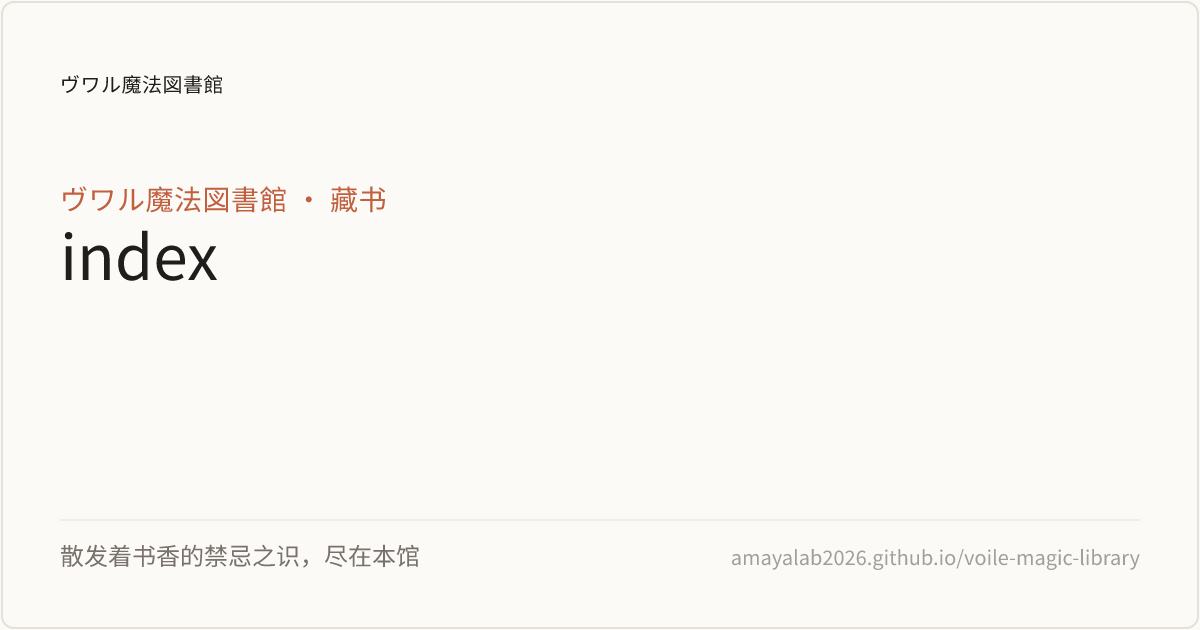
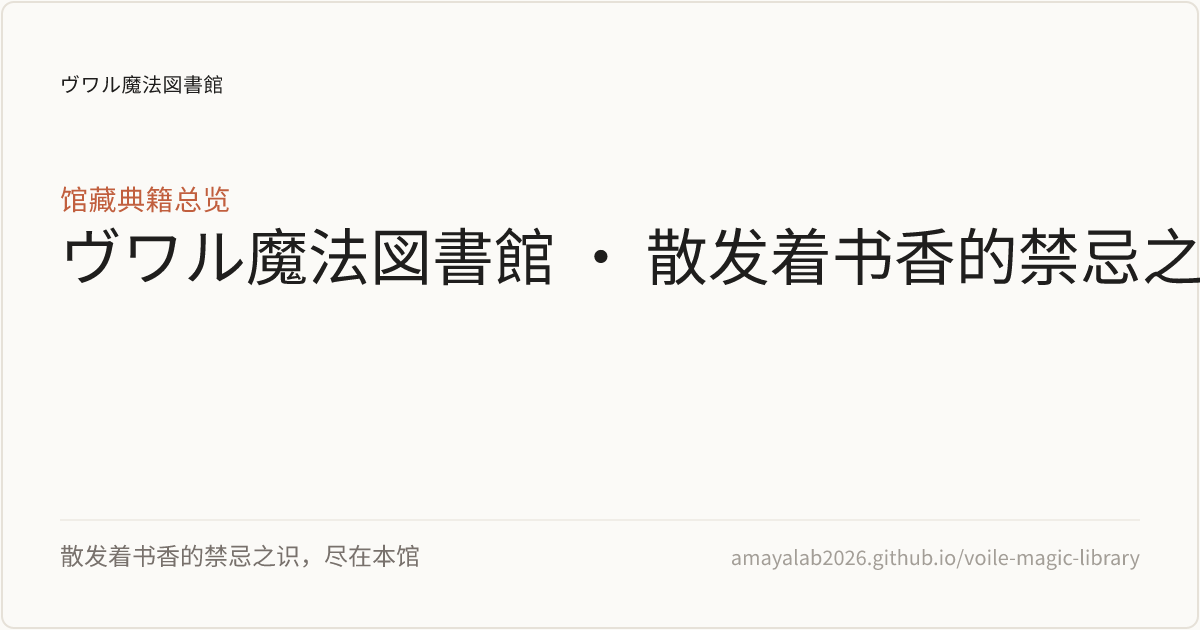
feat(og): format homepage og card with Claude aesthetic and dedicated collection title

Changed region(s): [[0.0308, 0.2714, 0.4625, 0.4524], [0.4933, 0.3619, 1.0, 0.4524], [0.2775, 0.3016, 0.3392, 0.3317]]

diff --git a/scripts/build_all_og.ts b/scripts/build_all_og.ts
@@ -113,7 +113,26 @@ export function resolvePageMeta(relPath: string): PageMeta {
   let callNo: string | undefined
   let author: string | undefined
 
-  if (normalized.includes('rocket-pioneers')) {
+  const isHome = urlPath === '/' || urlPath === '/en/' || urlPath === '/ja/' || urlPath === '/zh-hant/'
+  if (isHome) {
+    if (lang === 'en') {
+      title = 'Voile Magic Library · Digital Archives'
+      category = 'Digital Special Collections'
+    }
+    else if (lang === 'ja') {
+      title = 'ヴワル魔法図書館 · 書香漂う禁断の知識'
+      category = '館蔵典籍総覧'
+    }
+    else if (lang === 'zh-hant') {
+      title = 'ヴワル魔法図書館 · 散發著書香的禁忌之識'
+      category = '館藏典籍總覽'
+    }
+    else {
+      title = 'ヴワル魔法図書館 · 散发着书香的禁忌之识'
+      category = '馆藏典籍总览'
+    }
+  }
+  else if (normalized.includes('rocket-pioneers')) {
     callNo = 'VML-TL781.P56-1965'
     if (lang === 'en') {
       category = 'Pioneers of Rocket Technology (NASA TT F-9285)'

diff --git a/docs/zh/config.ts b/docs/zh/config.ts
@@ -95,6 +95,7 @@ export default defineConfig({
             { text: '典籍概述与全书目录', link: '/fonts-encodings/' },
             { text: '导言 · 探索篇：字母部件与排版', link: '/fonts-encodings/introduction' },
             { text: '第一章：前 Unicode 时代编码体系', link: '/fonts-encodings/chapter-1' },
+            { text: '第二章：字符字形与字节（Unicode 导论）', link: '/fonts-encodings/chapter-2' },
           ],
         },
       ],

diff --git a/docs/zh/fonts-encodings/chapter-2.md b/docs/zh/fonts-encodings/chapter-2.md
@@ -1,0 +1,291 @@
+---
+title: 第二章 · 字符、字形与字节：Unicode 导论
+description: 雅尼斯·哈拉兰布斯《Fonts & Encodings》第二章全文深度学术汉译：字符与字形哲学二元性、Unicode 十大第一原则、UTF-8/16/32 编码形式与代理对数学、17 个平面宏观路线图全景剖析。
+---
+
+# 第二章 · 字符、字形与字节：Unicode 导论
+### Chapter 2: Characters, Glyphs, Bytes: An Introduction to Unicode
+**著者：雅尼斯·哈拉兰布斯 博士（Yannis Haralambous, Ph.D.）**  
+*选自《字体与编码》（Fonts & Encodings）原著第 53–94 页*
+
+---
+
+在上一章中，我们见证了前 Unicode 时代的诸神混战：从 7 位 ASCII 到各式各样互不兼容的 8 位 ISO 8859 扩展表，再到远东汉字文化圈各自探索的双字节代码页。这种地域性单字节与多字节标准割据的局面，给全球计算机信息交换带来了无穷无尽的乱码梦魇。
+
+二十世纪八十年代末，一场旨在统一全人类所有书写系统的计算革命应运而生。然而，要想构建一套能够包容全世界过去、现在与未来所有文字的通用字符集，计算机科学家与语言学家首先必须退回到哲学的原点，回答几个看似简单、实则极为深刻的本体论命题：**什么是字符？什么是字形？它们与计算机底层的二进制字节之间，究竟维持着怎样的数理映射关系？**
+
+---
+
+## 哲学命题：字符与字形（Characters and Glyphs）
+
+在日常口语与早期浅显的计算机文献中，“字符”（character）、“字模”（letterform）与“字形”（glyph）常常被不加区分地混淆使用。然而在现代计算机排印学与编码理论中，**严格厘清字符与字形的边界，是进入 Unicode 殿堂的绝对第一前提**。
+
+* **字符（Character）**：  
+  字符是一个**抽象的概念实体（abstract, intangible entity）**。它是书写语言中最基础的语义单元，拥有明确的语言学身份、名称与规范属性，但它**本身没有任何固定的外貌、大小或视觉形态**。例如，拉丁字母 “小写字母 a” 是一个字符，汉字 “文” 是一个字符，阿拉伯字母 “BEH” 亦是一个字符。字符存在于逻辑与概念的心智世界中。
+* **字形（Glyph）**：  
+  字形是字符在物理世界的**具体视觉呈现形态（graphical image / visual presentation）**。它是落在纸面上的一团墨迹，或是投射在显示屏上的一组发光像素与贝塞尔矢量曲线。同一个字符，在不同的字体设计师笔下、在不同的历史书写流派中、或在不同的排版上下文中，可以呈现为成百上千种截然不同的字形！
+
+### 为什么计算机不应编码字形？
+
+早期某些字符编码之所以走向失败，其根本原因就在于试图将特定的“视觉字形”硬塞入字符表中。试想：如果一种字体中包含正体 ‘a’、斜体 ‘*a*’、粗体 ‘**a**’、双层 ‘a’ 与单层手写体 ‘ɑ’，我们是否应当为它们分别分配独立的编码码位？
+
+答案是绝对坚决的否定。如果将排版样式的字形变体编码为独立字符，全文检索、自然语言处理、语义分词与拼写检查将瞬间陷入灭顶之灾：搜索引擎在匹配单词 “apple” 时，将无法命中以斜体或粗体书写的同一单词！
+
+因此，现代编码哲学的至高法则为：**编码（encoding）只负责收录抽象的“字符”（What you mean），而字体（font）则负责提供具象的“字形”（How it looks）**。
+
+![多文种混排引发的语义混淆（Figure 2-1）](/images/fonts-encodings/fig2-1-mixed-scripts-athens.png)
+
+*图 2-1：多文种混排引发的视觉与语义混淆（作者摄于希腊雅典街头商业招牌）。招牌文字表面上混用了希腊字母与拉丁字母，造成了人类辨识与字符语义流的严重错位。*
+
+在 **Figure 2-1** 中，作者记录了雅典街头一处极具启示性的商业招牌：店主为了追求某种后现代视觉美感，故意在希腊文招牌中混杂了拉丁字母字形。对于人类肉眼而言，希腊字母大写 ‘$H$’（Eta）与拉丁字母大写 ‘$H$’（Aitch）、希腊字母大写 ‘$P$’（Rho）与拉丁字母大写 ‘$P$’（Pee）在字形外观上完全难分彼此；但如果将它们输入计算机，其底层对应的字符语义和发音却南辕北辙！这一现实范例生动地告诫我们：**绝不能以字形的表象来替代字符的本质语义**。
+
+### Unicode 联盟与 ISO 10646 的世纪合流
+
+Unicode 运动最初于 1987 年由施乐帕洛阿尔托研究中心（Xerox PARC）的乔·贝克尔（Joe Becker）、李·柯林斯（Lee Collins）与苹果公司的马克·戴维斯（Mark Davis）共同倡议发起。1991 年 1 月，**Unicode 联盟（Unicode Consortium）**在加州正式注册成立。
+
+与此并行，国际标准化组织（ISO）亦在推进其官方的国际多八位编码字符集计划——**ISO/IEC 10646**（即通用字符集 UCS, Universal Character Set）。在初期，ISO 阵营倾向于构建一个庞大的 31 位四维编码空间（组 Group、面 Plane、排 Row、格 Cell），而早期 Unicode 阵营则主张构建一个紧凑高效、面向全人类现代常用文字的统一 16 位定长编码（$2^{16} = 65,536$ 个码位）。
+
+两大标准体系的分裂势必造成全球软件工业的灾难。所幸在 1991 年底，双方达成了极具远见的重大历史和解与合并协议：
+* 双方的字符码位分配实现**完全严格的一对一同步（1:1 synchronization）**；
+* ISO/IEC 10646 的第一组第零平面（Group 00, Plane 00）被永久确立为 **基本多语言平面（BMP, Basic Multilingual Plane）**，其码位与 Unicode 16 位空间完全一一对应；
+* 双方共用一套字符命名与属性规范，彻底避免了世界计算标准的分裂。
+
+---
+
+## Unicode 十大第一原则（First Principles）
+
+Unicode 体系之所以能够超越此前所有字符编码标准，在于其从诞生之初就确立了十项不可动摇的顶层公理架构（The Ten Principles of Unicode）：
+
+1. **通用性（Universal repertoire）**：  
+   Unicode 致力于收录全世界一切书写系统中所使用过的所有字符——不仅涵盖所有现代活语言，亦囊括古文字、楔形文字、象形文字以及广袤的数学、音乐、科学专业符号。
+2. **高效性（Efficiency）**：  
+   文本数据流必须易于解析与处理，绝不依赖像 ISO 2022 那样容易因通信损耗导致后续全部解码错乱的有状态“模式切换”。
+3. **统一性（Uniformity）**：  
+   在给定的编码形式下，所有字符均采用统一宽度的基准数理单位，提供固定且确定性的码位引用体系。
+4. **明确性（Unambiguity）**：  
+   每一个已分配的码位（code point）在任何时间、任何语境下，均唯一且无歧义地对应一个具体的抽象字符。
+5. **字符而非字形（Characters, not glyphs）**：  
+   这是 Unicode 最核心的基石。Unicode 只为抽象字符分配码位，字形的外观变体（粗体、斜体、连字、位置变换形态）交由上层字体与排版引擎负责。
+6. **语义纯文本原则（Plain text）**：  
+   Unicode 序列仅承载纯文本字符流。任何关于字体选择、字号大小、行距、边距与色彩的排版富文本属性，均属于外部标记语言（如 HTML、XML、RTF）的范畴。
+7. **逻辑顺序（Logical order）**：  
+   在计算机内存与数据流中，字符必须严格按照人类思维书写或朗读发音的**逻辑先后顺序（logical memory order）**存储。对于阿拉伯文与希伯来文等从右向左（RTL）书写的文字，其在内存中的存储顺序依然与从左向右（LTR）文字一致（先读的在前，后读的在后），屏幕上的逆向呈现完全交由排版系统的**双向算法（Bidi Algorithm）**负责。
+8. **字符统合（Unification）**：  
+   当不同文化或同一语言体系中的若干字符，在书写历史、图形起源与现代语义上具有同源性与共同特征时，Unicode 坚决将其统合归并为一个单一码位。最著名的范例莫过于**中日韩汉字统合（Han Unification）**。
+9. **动态组合（Dynamic composition）**：  
+   Unicode 允许带有重音符或附加变音标记的字符通过“基础字符 + 组合变音符”（Base Character + Combining Marks）在排版时动态拼合，而无需为每一种可能的复合变音字符穷举分配静态码位。
+10. **永久稳定性（Stability）**：  
+    一个码位一旦被正式赋予某个字符，其**码位数值与规范名称永久不变、绝不回收、绝不重新分配**给其他字符；字符的核心规范属性在后续版本中只增不删，确保历史数据的永恒可逆性。
+
+---
+
+## 技术命题：字符、码位与字节
+
+离开了物理硬件，纯粹的哲学将无法运转。在计算机系统内部，字符究竟如何落地为磁盘上的比特与字节？
+
+现代字符标准体系将字符的表征清晰划分为五层模型架构：
+$$\text{抽象字符库（ACR）} \longrightarrow \text{编码字符集（CCS）} \longrightarrow \text{字符编码形式（CEF）} \longrightarrow \text{字符编码方案（CES）} \longrightarrow \text{传输语法（TES）}$$
+
+1. **抽象字符库（Abstract Character Repertoire, ACR）**：  
+   所有被标准认定的抽象字符的无序集合；
+2. **编码字符集（Coded Character Set, CCS）**：  
+   将抽象字符库中的每一个字符映射到一个唯一的非负整数——这个整数被称为**码位（Code Point）**。在 Unicode 规范中，码位以统一的前缀标记：
+   $$\text{U+0000} \sim \text{U+10FFFF}$$
+   总共定义了 $16 \times 2^{16} + 2^{16} = 17 \times 65,536 = 1,114,112$ 个码位。其中排除了代理区码位后的有效字符码位被称为 **Unicode 标量值（Unicode scalar value）**。
+3. **字符编码形式（Character Encoding Form, CEF）**：  
+   将整数码位映射为定长的计算机基本整数单元（Code Unit, 码元），即 UTF-32、UTF-16 与 UTF-8；
+4. **字符编码方案（Character Encoding Scheme, CES）**：  
+   处理多字节码元序列在不同硬件架构下的**字节序（Endianness）**，如 UTF-16BE（大端序）、UTF-16LE（小端序）；
+5. **传输编码语法（Transfer Encoding Syntax, TES）**：  
+   针对特定有损通信信道（如早期 7 位 SMTP 邮件）的数据封装，如 Base64 与 Quoted-Printable。
+
+---
+
+## 主流字符编码形式（CEF）深度解析
+
+### 1. UTF-32 与定长表示
+
+UTF-32（以及 ISO 10646 的 UCS-4）是概念上最纯粹的编码形式：它使用一个完整的 32 位（4 字节）无符号整数来直接表示每一个 Unicode 码位。
+* **优势**：绝对的定长特性。字符串中第 $N$ 个字符必然位于内存偏移量 $4N$ 处，使得按索引随机访问字符的时间复杂度达到最优的 $O(1)$；
+* **致命缺陷**：对绝大多数以拉丁字母、希腊字母或常用符号构成的西方文本而言，UTF-32 中高达 75% 的字节全部是无意义的零填充（`0x00 0x00 0x00`），造成了内存带宽、缓存命中率与磁盘空间的极其惨烈的浪费。
+
+### 2. UTF-16 与代理对（Surrogate Pairs）数学机制
+
+当 Unicode 联盟在 1990 年代中期意识到 16 位（65,536 个码位）终将无法容纳全人类的生僻汉字与古代文字时，工业界面临抉择：要么全面推倒重来强推 32 位，要么设计一种平滑兼容 16 位的优雅扩展算法。
+
+计算机科学家们最终提出了极其精妙的**代理对（Surrogate Pairs）机制**，由此诞生了 **UTF-16**。
+
+在基本多语言平面（BMP，即 $\text{U+0000} \sim \text{U+FFFF}$）中，Unicode 特意开辟了一片永远不分配给任何实际字符的“真空禁区”——**代理区（Surrogates, $\text{U+D800} \sim \text{U+DFFF}$，共 2,048 个码位）**，并将其均分为两大半区：
+* **高半区代理（High Surrogates / Lead Surrogates）**：$\text{U+D800} \sim \text{U+DBFF}$（共 $1,024 = 2^{10}$ 个值）；
+* **低半区代理（Low Surrogates / Trail Surrogates）**：$\text{U+DC00} \sim \text{U+DFFF}$（共 $1,024 = 2^{10}$ 个值）。
+
+任何一个落在辅助平面（Planes 1–16，即 $\text{U+10000} \sim \text{U+10FFFF}$）的高位码位 $N$，其数值必然满足：
+$$0 \le N - 0\text{x10000} \le 0\text{xFFFFF}$$
+
+这个差值正好是一个 20 位的二进制数！UTF-16 巧妙地将这 20 位对半切分为两组 10 位：
+* 高 10 位加上偏移基数 $0\text{xD800}$，生成一个**高半区代理字**（前导代理）；
+* 低 10 位加上偏移基数 $0\text{xDC00}$，生成一个**低半区代理字**（后尾代理）。
+
+#### 代理对数学转换方程
+* **编码（码位 $N \to$ 代理对 $(H, L)$）**：
+  $$N' = N - 0\text{x10000}$$
+  $$H = 0\text{xD800} + \lfloor N' / 0\text{x400} \rfloor = 0\text{xD800} + (N' \gg 10)$$
+  $$L = 0\text{xDC00} + (N' \pmod{0\text{x400}}) = 0\text{xDC00} + (N' \ \& \ 0\text{x3FF})$$
+* **解码（代理对 $(H, L) \to$ 码位 $N$）**：
+  $$N = ((H - 0\text{xD800}) \times 0\text{x400}) + (L - 0\text{xDC00}) + 0\text{x10000}$$
+
+由于高代理（`0xD800`–`0xDBFF`）与低代理（`0xDC00`–`0xDFFF`）的取值区间完全互斥，且与任何合法的 BMP 字符码位完全隔离，解析引擎在数据流中向前或向后滑动时，能够瞬间且无歧义地判定当前 16 位整数究竟是一个完整的单字符，还是代理对的头部或尾部！
+
+### 3. UTF-8：贝尔实验室的传世杰作
+
+1992 年 9 月的一天晚上，在新泽西州的一家餐馆里，肯·汤普森（Ken Thompson）与罗布·派克（Rob Pike）在餐巾纸上勾勒出了计算历史上最完美的编码形式——**UTF-8**（原名 FSS-UTF）。
+
+UTF-8 是一套纯粹的**以 8 位字节为基准的变长编码形式（variable-width byte-based encoding）**，它使用 1 至 4 个字节来对 21 位的 Unicode 码位进行精确切分：
+
+| 标量码位范围（十六进制） | 字节数 | 字节 1（前导字节） | 字节 2（后随字节） | 字节 3（后随字节） | 字节 4（后随字节） |
+| :--- | :---: | :--- | :--- | :--- | :--- |
+| `00000000`–`0000007F` | 1 | `0xxxxxxx` | — | — | — |
+| `00000080`–`000007FF` | 2 | `110yyyyy` | `10xxxxxx` | — | — |
+| `00000800`–`0000FFFF` | 3 | `1110zzzz` | `10yyyyyy` | `10xxxxxx` | — |
+| `00010000`–`0010FFFF` | 4 | `11110uuu` | `10uuzzzz` | `10yyyyyy` | `10xxxxxx` |
+
+#### UTF-8 的工程美学巅峰：
+1. **绝对向下兼容 ASCII**：  
+   对于 `0x00`–`0x7F` 的 128 个 ASCII 字符，UTF-8 使用单字节存储，且最高位（bit 7）恒为 0。这意味着任何合法的 ASCII 英文文件，**无需做任何字节转换，本身就是一份完全合法的 UTF-8 文件**！所有原本只认识 C 语言 ASCII 字符串（以 `\0` 结尾）的古老系统工具（如 `grep`、`sed`、`awk`、编译器），完全无需重写即可直接操作 UTF-8。
+2. **前缀自同步特性（Self-synchronizing）**：  
+   在多字节序列中：
+   * 前导字节（Lead Byte）的高位具有特征掩码：`110...` 代表后续跟随 1 个字节；`1110...` 代表后续跟随 2 个字节；`11110...` 代表后续跟随 3 个字节；
+   * 所有后随字节（Continuation Bytes）的高两位**恒定为 `10xxxxxx`**！
+   这种设计具有无与伦比的容错性：如果由于网络传输丢包或磁盘损坏导致字节流中间发生截断，解码器只需线性向后扫描，一旦遇到一个最高位不是 `10...` 的字节，便能**瞬间找回同步边界（resynchronize）**重新开始正确解码，绝不会让单点故障滚雪球式污染整个后续文本！
+3. **彻底根除大小端问题**：  
+   由于 UTF-8 的数据单元本身就是 8 位字节，它在任何 CPU 架构下都不存在多字节整数的高低端重排问题，无需字节顺序标记（BOM）。
+
+### 4. 字节顺序标记（Byte Order Mark, BOM）
+
+在处理 UTF-16 与 UTF-32 时，多字节整数在内存中究竟应当高位在前（大端序 Big-Endian）还是低位在前（小端序 Little-Endian），取决于底层 CPU 的物理架构（Intel x86 采用小端，Motorola/PowerPC 采用大端）。
+
+为了在跨平台交换文件时消除歧义，Unicode 特意设计了**字节顺序标记（BOM）**：字符 **$U+\text{FEFF}$（零宽不换行空格 / ZERO WIDTH NO-BREAK SPACE）**。
+* 如果接收方在文件开头读入的两个字节是 `0xFE 0xFF`，则表明该文本采用大端序（UTF-16BE）；
+* 如果读入的两个字节是 `0xFF 0xFE`，则表明该文本采用小端序（UTF-16LE）。为什么？因为在 Unicode 规范中，**$U+\text{FFFE}$ 已经被永久声明为一个非法字符（Noncharacter）**，它在任何合法的 Unicode 文本中都绝不可能存在！一旦出现，唯一的解释就是当前系统的字节读取顺序颠倒了。
+
+---
+
+## Unicode 宏观组织：平面与区段路线图
+
+整个 Unicode 码位空间（$U+0000 \sim U+10FFFF$）被均分为 **17 个大小相等的平面（Planes）**，每个平面包含 $2^{16} = 65,536$ 个码位。
+
+在目前定义的 17 个平面中，已正式入驻字符的共有 **6 大核心平面**，如 **Figure 2-2** 所示：
+
+![Unicode 版本 4 中已填充的六大平面全貌（Figure 2-2）](/images/fonts-encodings/fig2-2-populated-planes-unicode.png)
+
+*图 2-2：Unicode 体系中已分配填充的六大平面（The six currently populated planes of Unicode）：第 0 平面（BMP）、第 1 平面（SMP）、第 2 平面（SIP）、第 14 平面（SSP）、以及第 15 与 16 平面（私用补充平面）。*
+
+* **第 0 平面：基本多语言平面（BMP, Basic Multilingual Plane, $0\text{x0000}$–$0\text{xFFFF}$）**：  
+  全书最核心的心脏地带，囊括了当今现代世界正在使用的绝大多数书写系统、全套通用符号体系与常用汉字表意文字；
+* **第 1 平面：第一辅助平面 / 多语言补充平面（SMP, Supplementary Multilingual Plane, $0\text{x10000}$–$0\text{x1FFFF}$）**：  
+  主要容纳人类历史上的古代文献书写系统（如埃及象形文字、苏美尔与波斯楔形文字、古希腊古代碑铭与音乐记号）、专业数学字母数字符号、以及历史古记号；
+* **第 2 平面：第二辅助平面 / 表意文字补充平面（SIP, Supplementary Ideographic Plane, $0\text{x20000}$–$0\text{x2FFFF}$）**：  
+  东亚中日韩表意汉字的海量扩充库（收录扩展 B、C、D 等大批古籍异体字、历史地名及生僻姓氏字）；
+* **第 14 平面：特别用途补充平面（SSP, Supplementary Special-Purpose Plane, $0\text{xE0000}$–$0\text{xE0FFF}$）**：  
+  类似“工程隔离检疫区”，专门存放语言标签标记与补充变体选择符；
+* **第 15 与 16 平面：私用补充平面（Supplementary Private Use Areas, Planes 15 & 16）**：  
+  共计 $131,068$ 个完全对公众开放的自定义码位，供各类企业、字库厂商与专业研究机构自行定义内部专用字符。
+
+---
+
+## 基本多语言平面（BMP）全景宏观路线图
+
+基本多语言平面（Plane 0）是整部人类数字文字文明的微缩全景图。在 **Figure 2-3** 中，作者绘制了一幅精妙绝伦的 BMP 分布矩阵总图：
+
+![基本多语言平面（BMP）宏观路线分布矩阵图（Figure 2-3）](/images/fonts-encodings/fig2-3-bmp-roadmap.png)
+
+*图 2-3：Unicode 基本多语言平面（BMP）宏观路线图（The roadmap of Unicode's Basic Multilingual Plane）。横轴与纵轴以十六进制网格标示，直观展现了从西欧拉丁字母、近东闪米特文字、南亚天城文系统、直到东亚浩瀚汉字表意文字大区的完整拓扑结构。*
+
+让我们顺着这幅宏伟的知识地图，逐一勘察 BMP 各核心区块的精妙布局：
+
+### 1. 拉丁文字与西方语音扩展区（$0\text{x0000} \sim 0\text{x02AF}$）
+* **基本拉丁（ASCII, $0\text{x0000}$–$0\text{x007F}$）**与 **Latin-1 补充（$0\text{x0080}$–$0\text{x00FF}$）**：原汁原味地保留了 ISO 8859-1 的全部码位布局；
+* **拉丁文扩展-A 与扩展-B（$0\text{x0100}$–$0\text{x024F}$）**：收录了中欧、波罗的海、土耳其语、以及西方语言学家为非洲及美洲土著语汇编的稀有拉丁变体字母；在此亦收录了克罗地亚文与塞尔维亚文一一对应的三个双合字母：‘Ǆ’（dž）、‘ǈ’（lj）与 ‘Ǌ’（nj）；
+* **国际音标扩展（IPA Extensions, $0\text{x0250}$–$0\text{x02AF}$）**：国际语音学学会用于精确记录全人类所有发音形态的单形态小写音标符号。
+
+### 2. 欧洲古典与东方基督教文种区（$0\text{x0370} \sim 0\text{x052F}$）
+* **希腊文与科普特文（$0\text{x0370}$–$0\text{x03FF}$）**：包含现代单音希腊文与早期埃及科普特教会字母；而在随后的 $0\text{x1F00}$–$0\text{x1FFF}$ 区段，则完整保留了古希腊语典雅的多音重音系统（Polytonic Greek，带有粗气符、柔气符、锐音符与抑扬符）；
+* **西里尔字母及其扩展（$0\text{x0400}$–$0\text{x052F}$）**：不仅收录了现代俄语、乌克兰语、保加利亚语与塞尔维亚语字母，还收录了古教会斯拉夫语（Old Church Slavonic）珍贵的早期西里尔字母；
+* **亚美尼亚文（$0\text{x0530}$–$0\text{x058F}$）**：公元五世纪圣梅斯罗布（Mesrop Mashtots）创立的高加索独特文字。
+
+### 3. 近东闪米特从右至左（RTL）文字区（$0\text{x0590} \sim 0\text{x08FF}$）
+* **希伯来文（$0\text{x0590}$–$0\text{x05FF}$）**：包含现代方块字母以及《希伯来圣经》特有的提比里安发音点号（Niqqud）与诵读吟诵标记（Cantillation marks）；
+* **阿拉伯文及其展示形式（$0\text{x0600}$–$0\text{x06FF}$ 及 $0\text{xFB50}$–$0\text{xFEFC}$）**：不仅服务于阿拉伯语，更全面覆盖了波斯语、乌尔都语、普什图语、信德语以及维吾尔语的扩展字母；
+* **叙利亚文（Syriac, $0\text{x0700}$–$0\text{x074F}$）**与**西非书面文字（N'Ko, $0\text{x07C0}$–$0\text{x07FF}$）**。
+
+### 4. 印度次大陆与南亚婆罗米系文字群（$0\text{x0900} \sim 0\text{x0DFF}$）
+这一区域构成了 Unicode 中结构最为繁复瑰丽的章节。所有源自古代阿育王婆罗米文字（Brahmi script）的南亚与东南亚音素文字（Abugida），全部严格遵循统一的音标网格结构并行排列：
+* **天城文（Devanagari, $0\text{x0900}$–$0\text{x097F}$）**：用于书写梵文、印地语与马拉地语；
+* **孟加拉文、果鲁穆奇文（旁遮普语）、古吉拉特文、奥里亚文、泰米尔文、泰卢固文、卡纳达文、马拉雅拉姆文与僧伽罗文**；
+* 紧随其后的是中南半岛的**泰文（$0\text{x0E00}$–$0\text{x0E7F}$）**、**老挝文（$0\text{x0E80}$–$0\text{x0EFF}$）**、神圣宏大的**藏文（Tibetan, $0\text{x0F00}$–$0\text{x0FFF}$）**、以及**缅甸文与高棉文**。
+
+### 5. 通用符号、数学公式与技术制表符（$0\text{x2000} \sim 0\text{x2BFF}$）
+* **通用标点符号（$0\text{x2000}$–$0\text{x206F}$）**：包含了排印学上所有严格度量的空格（全角空格 Em space、半角空格 En space、三分之一空格 Thin space、不换行空格）、破折号（Em dash, En dash）、弯引号（‘ ’ “ ”）、以及现代双向文本控制符（LRM、RLM、ZWNJ、ZWJ）；
+* **数学符号矩阵**：包括数学运算符（$\sum, \prod, \int, \sqrt{}$）、箭头符号、几何图形、技术控制符号与盲文点字（Braille Patterns）。
+
+### 6. 汉字表意文字与东亚文字大区（$0\text{x2E80} \sim 0\text{xA4CF}$）
+这是基本多语言平面中面积最辽阔的陆地：
+* **部首与结构符**：康熙字典部首（$0\text{x2F00}$–$0\text{x2FDF}$）与汉字表意文字描述符（IDC, $0\text{x2FF0}$–$0\text{x2FFF}$）；
+* **假名与注音**：日文平假名、片假名以及汉语注音符号（Bopomofo）；
+* **CJK 统一表意文字扩展 A 区（Extension A, $0\text{x3400}$–$0\text{x4DBF}$）**：收录 6,582 个生僻表意汉字；
+* **CJK 统一表意文字主区（CJK Unified Ideographs, $0\text{x4E00}$–$0\text{x9FFF}$）**：**整整 20,902 个核心汉字**，集结了中日韩三国最核心的通用字汇；
+* **彝文音节文字（$0\text{xA000}$–$0\text{xA48F}$）**与**现代韩文谚文音节区（Hangul Syllables, $0\text{xAC00}$–$0\text{xD7A3}$）**：完整收录全部 $11,172$ 个由初声、中声、终声组合而成的现代韩文音节方块字。
+
+---
+
+## 高位平面路线图（Higher Planes Roadmap）
+
+当跨越 $0\text{xFFFF}$ 的边界后，我们便步入了需要使用 4 字节（UTF-32）或代理对（UTF-16）才能访问的**高位辅助平面（Supplementary Planes）**。在 **Figure 2-4、2-5 与 2-6** 中，作者分别绘制了三大高位平面的布局图版：
+
+![辅助多语言平面、表意文字补充平面与特别用途补充平面路线图（Figure 2-4, 2-5, 2-6）](/images/fonts-encodings/fig2-4-smp-roadmap.png)
+
+*图 2-4：第一辅助平面 / 多语言补充平面（SMP, Plane 1）路线图：收录迈锡尼线形文字 B、塞浦路斯音节文字、古希腊古典记数法、古哥特文、乌加里特楔形文字、古波斯楔形文字、肖伯纳字母、奥斯曼亚文、拜占庭音乐记号、西洋音乐记号与数学字母数字符号。*
+
+![第二辅助平面（SIP）路线图（Figure 2-5）](/images/fonts-encodings/fig2-5-sip-roadmap.png)
+
+*图 2-5：第二辅助平面 / 表意文字补充平面（SIP, Plane 2）路线图：容纳了极其庞大的 CJK 统一表意文字扩展 B 区（Extension B）以及补充兼容表意文字。*
+
+![特别用途补充平面（SSP）路线图（Figure 2-6）](/images/fonts-encodings/fig2-6-ssp-roadmap.png)
+
+*图 2-6：特别用途补充平面（SSP, Plane 14）路线图：包含语言标签与补充变体选择符。*
+
+### 1. 第一辅助平面（SMP）：古代文献与学术记号的方舟
+SMP（第一平面，$\text{U+10000} \sim \text{U+1FFFF}$）堪称全人类古代考古与死文字的数字万神殿：
+* **迈锡尼线形文字 B（Linear B, $0\text{x10000}$–$0\text{x1007F}$）**：英国建筑师迈克尔·文特里斯（Michael Ventris）于 1952 年破译的欧洲最古老文献文字；
+* **美索不达米亚苏美尔与阿卡德楔形文字（Cuneiform, $0\text{x12000}$–$0\text{x123FF}$）**；
+* **音乐与记号体系**：不仅完整收录了现代西洋五线谱记号（音符、休止符、调号），更罕见地收录了中世纪东正教**拜占庭音乐记号（Byzantine Musical Symbols）**与古希腊音乐记谱法；
+* **数学字母数字符号（Mathematical Alphanumeric Symbols, $0\text{x1D400}$–$0\text{x1D7FF}$）**：为了让数学公式中的粗体（$\mathbf{A}$）、黑板粗体（$\mathbb{R}, \mathbb{C}$）、手写花体（$\mathcal{H}$）与哥特体（$\mathfrak{g}$）具有独立的数学语义，Unicode 特意在 SMP 中为它们分别建立了严格独立的码位空间！
+
+### 2. 第二辅助平面（SIP）：浩瀚汉字之海
+SIP（第二平面，$\text{U+20000} \sim \text{U+2FFFF}$）几乎完全被 **CJK 统一表意文字扩展 B 区（Extension B, $0\text{x20000}$–$0\text{x2A6DF}$）** 所占据。
+
+扩展 B 区收录了惊人的 **42,711 个表意汉字**！这些汉字绝大多数来自中国古代《康熙字典》、《中华大字典》、《汉语大字典》、历代地方志、石刻碑帖以及佛教大藏经中的罕见异体字。扩展 B 区的入轨，使得全球学者在数字化整理千年前的甲骨、青铜铭文与宋元古籍时，第一次摆脱了字形造字与图片贴图的桎梏。
+
+### 3. 第十四平面（SSP）：受控的特殊语言指令
+SSP（第十四平面，$\text{U+E0000} \sim \text{U+E0FFF}$）收录了极为罕见的控制标签符：
+* **语言标签（Language Tags, $0\text{xE0001}$–$0\text{xE007F}$）**：允许在纯文本内部隐蔽嵌入当前文字所属的 RFC 3066 语言代码（如 `en-US` 或 `zh-CN`）；
+* **补充变体选择符（Variation Selectors Supplement, $0\text{xE0100}$–$0\text{xE01EF}$）**：用于为 CJK 汉字或古文字指定极其微妙的历史异体写法。
+
+---
+
+## 候选文字与未来扩展（Scripts Proposed for Addition）
+
+在作者成书之际，Unicode 的疆界依然在不断向外开拓。人类学者与语言学家组成的专门委员会仍在夜以继日地推进未入轨文字的标准化考察：
+* **埃及圣书体象形文字（Egyptian Hieroglyphs）**：数千个描绘神明、鸟兽、法老与器物的象形表意符号，如今已在后续 Unicode 版本中正式落定于 SMP；
+* **伯格理苗文（Pollard script）**：二十世纪初英国传教士柏格理在中国西南苗族聚居区创立的精妙音节文字；
+* **复活节岛朗格朗格木板文（Rongorongo）**：太平洋绝海孤岛上至今未被完全破译的神秘象形木刻铭文；
+* **古南阿拉伯文字（Ancient South Arabian）**：前伊斯兰时期也门与红海沿岸商路的古老文字；
+* **蒙古索永布文字（Soyombo）**：1686 年由蒙古高僧扎那巴扎尔创制的精美字母，其首字母至今仍作为国家主权象征傲然铭刻在蒙古国的国旗之上。
+
+---
+
+从字符的抽象神髓，到字形的千变万化，再到十六进制二进制比特流在平面间的有序排列，Unicode 为人类文明筑起了一座坚不可摧的数字巴别塔。
+
+然而，仅有码位的排列分配，并不足以支撑一篇赏心悦目的高质量文献排印。每个字符在自然语言文本中具备怎样的语法与排版特性？大写与小写如何映射？双向文本如何折行？变音符号如何锚定？
+
+这正是我们在**第三章：Unicode 字符核心属性体系**中即将踏上的全新探索航程。

diff --git a/docs/zh/index.md b/docs/zh/index.md
@@ -36,7 +36,4 @@ features:
   - icon: 🔤
     title: 现代排印与字体工程
     details: 收录雅尼斯·哈拉兰布斯 1040 页百科全书式巨著《字体与编码》，涵盖 Unicode 5.0、TrueType 虚拟机微码、字母解剖学及贝塞尔排印数学。
-  - icon: ⚡
-    title: 极速阅读体验
-    details: 基于 VitePress 与 Claude 温润拟纸美学，大圆角胶囊交互与优雅衬线排版，如在昏黄灯下轻翻泛黄典籍。
 ---
